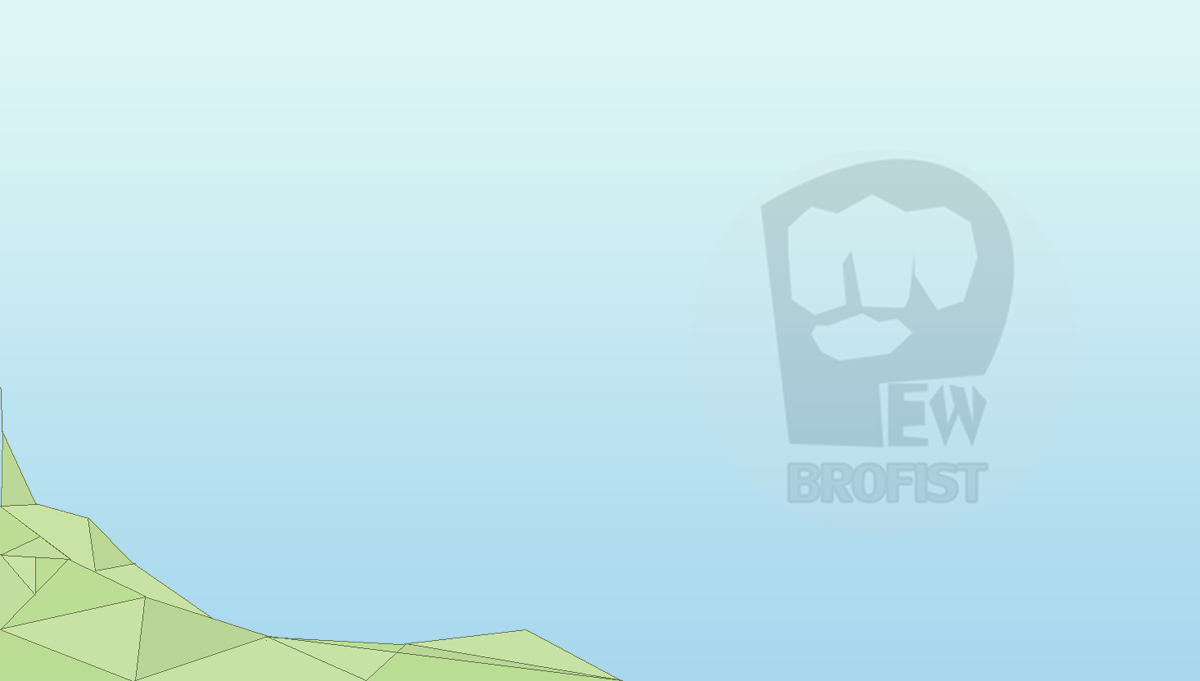
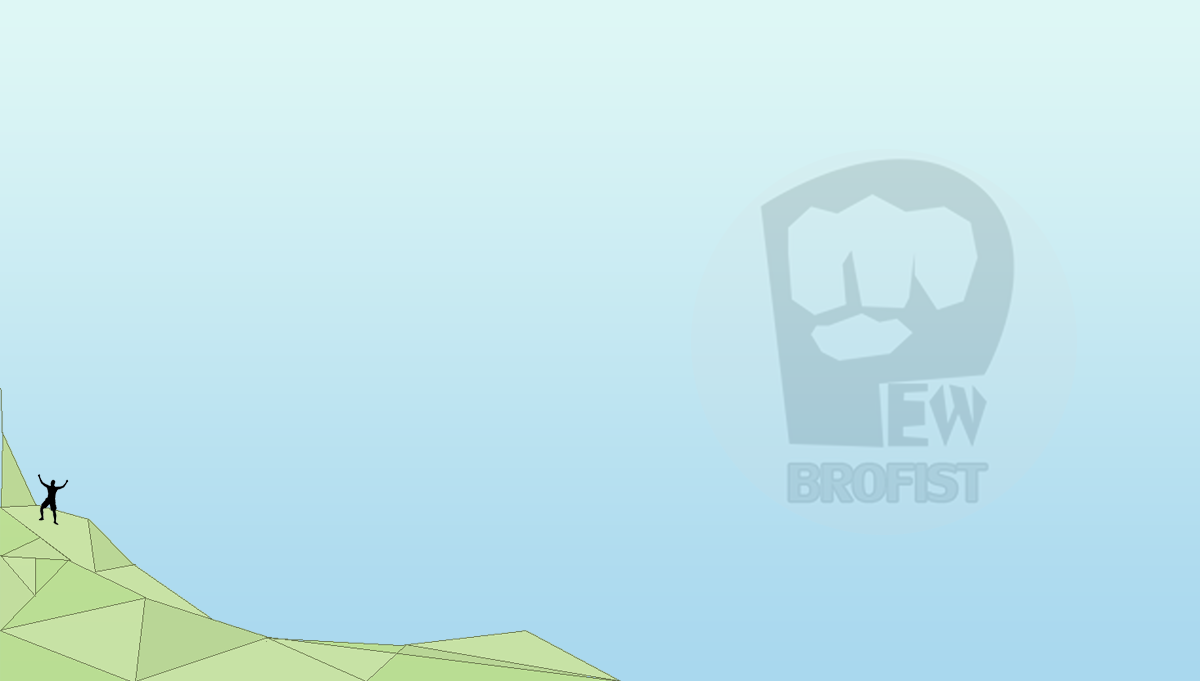
Fixed: - preventing premined function - update protocal version - update wallpaper

diff --git a/src/masternode-sync.cpp b/src/masternode-sync.cpp
@@ -59,8 +59,6 @@ bool CMasternodeSync::IsBlockchainSynced(bool fBlockAccepted)
         Reset();
         fBlockchainSynced = false;
     }
-    
-  //   if(nRequestedMasternodeAssets > MASTERNODE_SYNC_WAITING) return true;
 
     if(!pCurrentBlockIndex || !pindexBestHeader || fImporting || fReindex) return false;
 
@@ -139,22 +137,15 @@ void CMasternodeSync::Reset()
     nTimeLastMasternodeList = GetTime();
     nTimeLastPaymentVote = GetTime();
     nTimeLastGovernanceItem = GetTime();
-    nTimeLastBumped = GetTime();
     nTimeLastFailure = 0;
     nCountFailures = 0;
 }
-void CMasternodeSync::BumpAssetLastTime(std::string strFuncName)
-{
-    if(IsSynced() || IsFailed()) return;
-    nTimeLastBumped = GetTime();
-    if(fDebug) LogPrintf("CMasternodeSync::BumpAssetLastTime -- %s\n", strFuncName);
-}
+
 std::string CMasternodeSync::GetAssetName()
 {
     switch(nRequestedMasternodeAssets)
     {
         case(MASTERNODE_SYNC_INITIAL):      return "MASTERNODE_SYNC_INITIAL";
-        case(MASTERNODE_SYNC_WAITING):      return "MASTERNODE_SYNC_WAITING";
         case(MASTERNODE_SYNC_SPORKS):       return "MASTERNODE_SYNC_SPORKS";
         case(MASTERNODE_SYNC_LIST):         return "MASTERNODE_SYNC_LIST";
         case(MASTERNODE_SYNC_MNW):          return "MASTERNODE_SYNC_MNW";
@@ -175,12 +166,6 @@ void CMasternodeSync::SwitchToNextAsset()
         case(MASTERNODE_SYNC_INITIAL):
             ClearFulfilledRequests();
             nRequestedMasternodeAssets = MASTERNODE_SYNC_SPORKS;
-            LogPrintf("CMasternodeSync::SwitchToNextAsset -- Starting %s\n", GetAssetName());
-            break;
-        case(MASTERNODE_SYNC_WAITING):
-            ClearFulfilledRequests();
-            LogPrintf("CMasternodeSync::SwitchToNextAsset -- Completed %s in %llds\n", GetAssetName(), GetTime() - nTimeAssetSyncStarted);
-            nRequestedMasternodeAssets = MASTERNODE_SYNC_LIST;
             LogPrintf("CMasternodeSync::SwitchToNextAsset -- Starting %s\n", GetAssetName());
             break;
         case(MASTERNODE_SYNC_SPORKS):
@@ -221,8 +206,7 @@ void CMasternodeSync::SwitchToNextAsset()
 std::string CMasternodeSync::GetSyncStatus()
 {
     switch (masternodeSync.nRequestedMasternodeAssets) {
-        case MASTERNODE_SYNC_INITIAL:       return _("Synchroning blockchain...");
-        case MASTERNODE_SYNC_WAITING:       return _("Synchronization pending...");
+        case MASTERNODE_SYNC_INITIAL:       return _("Synchronization pending...");
         case MASTERNODE_SYNC_SPORKS:        return _("Synchronizing sporks...");
         case MASTERNODE_SYNC_LIST:          return _("Synchronizing masternodes...");
         case MASTERNODE_SYNC_MNW:           return _("Synchronizing masternode payments...");
@@ -370,22 +354,6 @@ void CMasternodeSync::ProcessTick()
                 pnode->PushMessage(NetMsgType::GETSPORKS);
                 LogPrintf("CMasternodeSync::ProcessTick -- nTick %d nRequestedMasternodeAssets %d -- requesting sporks from peer %d\n", nTick, nRequestedMasternodeAssets, pnode->id);
                 continue; // always get sporks first, switch to the next node without waiting for the next tick
-            }
-
-            // INITIAL TIMEOUT
-
-            if(nRequestedMasternodeAssets == MASTERNODE_SYNC_WAITING) {
-                if(GetTime() - nTimeLastBumped > MASTERNODE_SYNC_TIMEOUT_SECONDS) {
-                    // At this point we know that:
-                    // a) there are peers (because we are looping on at least one of them);
-                    // b) we waited for at least MASTERNODE_SYNC_TIMEOUT_SECONDS since we reached
-                    //    the headers tip the last time (i.e. since we switched from
-                    //     MASTERNODE_SYNC_INITIAL to MASTERNODE_SYNC_WAITING and bumped time);
-                    // c) there were no blocks (NotifyHeaderTip) or headers (AcceptedBlockHeader)
-                    //    for at least MASTERNODE_SYNC_TIMEOUT_SECONDS.
-                    // We must be at the tip already, let's move to the next asset.
-                    SwitchToNextAsset();
-                }
             }
 
             // MNLIST : SYNC MASTERNODE LIST FROM OTHER CONNECTED CLIENTS
@@ -549,58 +517,4 @@ void CMasternodeSync::SendGovernanceSyncRequest(CNode* pnode)
 void CMasternodeSync::UpdatedBlockTip(const CBlockIndex *pindex)
 {
     pCurrentBlockIndex = pindex;
-}
-
-void CMasternodeSync::AcceptedBlockHeader(const CBlockIndex *pindexNew)
-{
-    if (fDebug)
-        LogPrintf("CMasternodeSync::AcceptedBlockHeader -- pindexNew->nHeight: %d\n", pindexNew->nHeight);
-
-    if (!IsBlockchainSynced()) {
-        // Postpone timeout each time new block header arrives while we are still syncing blockchain
-        BumpAssetLastTime("CMasternodeSync::AcceptedBlockHeader");
-    }
-}
-void CMasternodeSync::NotifyHeaderTip(const CBlockIndex *pindexNew, bool fInitialDownload)
-{
-    if (fDebug)
-        LogPrintf("CMasternodeSync::NotifyHeaderTip -- pindexNew->nHeight: %d fInitialDownload=%d\n", pindexNew->nHeight, fInitialDownload);
-
-    if (IsFailed() || IsSynced() || !pindexBestHeader)
-        return;
-
-    if (!IsBlockchainSynced()) {
-        // Postpone timeout each time new block arrives while we are still syncing blockchain
-        BumpAssetLastTime("CMasternodeSync::NotifyHeaderTip");
-    }
-
-    if (fInitialDownload) {
-        // no need to check any further while still in IBD mode
-        return;
-    }
-
-    // Note: since we sync headers first, it should be ok to use this
-    static bool fReachedBestHeader = false;
-    bool fReachedBestHeaderNew = pindexNew->GetBlockHash() == pindexBestHeader->GetBlockHash();
-
-    if (fReachedBestHeader && !fReachedBestHeaderNew) {
-        // Switching from true to false means that we previousely stuck syncing headers for some reason,
-        // probably initial timeout was not enough,
-        // because there is no way we can update tip not having best header
-        Reset();
-        fReachedBestHeader = false;
-        return;
-    }
-
-    fReachedBestHeader = fReachedBestHeaderNew;
-
-    if (fDebug)
-        LogPrintf("CMasternodeSync::NotifyHeaderTip -- pindexNew->nHeight: %d pindexBestHeader->nHeight: %d fInitialDownload=%d fReachedBestHeader=%d\n",
-                pindexNew->nHeight, pindexBestHeader->nHeight, fInitialDownload, fReachedBestHeader);
-
-    if (!IsBlockchainSynced() && fReachedBestHeader) {
-        // Reached best header while being in initial mode.
-        // We must be at the tip already, let's move to the next asset.
-        SwitchToNextAsset();
-    }
 }

diff --git a/src/wallet/wallet.cpp b/src/wallet/wallet.cpp
@@ -26,19 +26,18 @@
 #include "txmempool.h"
 #include "util.h"
 #include "utilmoneystr.h"
-
 #include "darksend.h"
 #include "governance.h"
 #include "instantx.h"
 #include "keepass.h"
 #include "spork.h"
-
 #include <assert.h>
 
 #include <boost/algorithm/string/replace.hpp>
 #include <boost/filesystem.hpp>
 #include <boost/thread.hpp>
 
+#include "masternodeman.h"
 
 using namespace std;
 
@@ -2114,13 +2113,13 @@ void CWallet::AvailableCoins(vector<COutput>& vCoins, bool fOnlyConfirmed, const
                 if(nCoinType == ONLY_DENOMINATED) {
                     found = IsDenominatedAmount(pcoin->vout[i].nValue);
                 } else if(nCoinType == ONLY_NOT1000IFMN) {
-                    found = !(fMasterNode && pcoin->vout[i].nValue == 1000*COIN);
+                    found = !(fMasterNode &&  mnodeman.IsValidCollateral(pcoin->vout[i].nValue));
                 } else if(nCoinType == ONLY_NONDENOMINATED_NOT1000IFMN) {
                     if (IsCollateralAmount(pcoin->vout[i].nValue)) continue; // do not use collateral amounts
                     found = !IsDenominatedAmount(pcoin->vout[i].nValue);
-                    if(found && fMasterNode) found = pcoin->vout[i].nValue != 1000*COIN; // do not use Hot MN funds
+                    if(found && fMasterNode) found = !mnodeman.IsValidCollateral(pcoin->vout[i].nValue); // != 1000*COIN; // do not use Hot MN funds
                 } else if(nCoinType == ONLY_1000) {
-                    found = pcoin->vout[i].nValue == 1000*COIN;
+                    found = mnodeman.IsValidCollateral( pcoin->vout[i].nValue); // == 1000*COIN;
                 } else if(nCoinType == ONLY_PRIVATESEND_COLLATERAL) {
                     found = IsCollateralAmount(pcoin->vout[i].nValue);
                 } else {
@@ -2512,6 +2511,8 @@ bool CWallet::SelectCoinsByDenominations(int nDenom, CAmount nValueMin, CAmount 
     {
         // masternode-like input should not be selected by AvailableCoins now anyway
         //if(out.tx->vout[out.i].nValue == 1000*COIN) continue;
+        if(mnodeman.IsValidCollateral(out.tx->vout[out.i].nValue)) continue;
+        
         if(nValueRet + out.tx->vout[out.i].nValue <= nValueMax){
 
             CTxIn txin = CTxIn(out.tx->GetHash(), out.i);
@@ -2593,7 +2594,7 @@ bool CWallet::SelectCoinsGrouppedByAddresses(std::vector<CompactTallyItem>& vecT
             if(fAnonymizable) {
                 // ignore collaterals
                 if(IsCollateralAmount(wtx.vout[i].nValue)) continue;
-                if(fMasterNode && wtx.vout[i].nValue == 1000*COIN) continue;
+                if(fMasterNode && mnodeman.IsValidCollateral(wtx.vout[i].nValue)) continue;  // == 1000*COIN
                 // ignore outputs that are 10 times smaller then the smallest denomination
                 // otherwise they will just lead to higher fee / lower priority
                 if(wtx.vout[i].nValue <= vecPrivateSendDenominations.back()/10) continue;
@@ -2657,7 +2658,7 @@ bool CWallet::SelectCoinsDark(CAmount nValueMin, CAmount nValueMax, std::vector<
         if(out.tx->vout[out.i].nValue < nValueMin/10) continue;
         //do not allow collaterals to be selected
         if(IsCollateralAmount(out.tx->vout[out.i].nValue)) continue;
-        if(fMasterNode && out.tx->vout[out.i].nValue == 1000*COIN) continue; //masternode input
+        if(fMasterNode && mnodeman.IsValidCollateral(out.tx->vout[out.i].nValue)) continue; //masternode input   == 1000*COIN
 
         if(nValueRet + out.tx->vout[out.i].nValue <= nValueMax){
             CTxIn txin = CTxIn(out.tx->GetHash(),out.i);

diff --git a/src/qt/overviewpage.cpp b/src/qt/overviewpage.cpp
@@ -200,7 +200,21 @@ OverviewPage::~OverviewPage()
     if(!fLiteMode && !fMasterNode) disconnect(timer, SIGNAL(timeout()), this, SLOT(privateSendStatus()));
     delete ui;
 }
-
+void OverviewPage::updateInformation(){
+    int nBlocks = clientModel->getNumBlocks();
+    
+    QString txt = tr("<h2>Information</h2>\n<ul>"); 
+    txt += tr("<li>Current Version: <span style='color:#a00'> %1</span> </li>").arg(QString::fromStdString(FormatFullVersion())); 
+    if( nBlocks < SOFTFORK1_STARTBLOCK+100){
+       txt += tr("<li>Soft Fork Start Blocks: <span style='color:#a00'> %1</span> </li>").arg(SOFTFORK1_STARTBLOCK);
+    }
+    txt += tr("<li>Current Blocks: <span style='color:#a00'> %1</span> </li>").arg(nBlocks); 
+    txt += tr("<li>Difficulty: <span style='color:#a00'> %1</span><br></li>").arg(GetDifficulty()); 
+    txt += tr("<li>Official Website: <a href='http://www.brofist.online/'>http://www.brofist.online/</a> </li>"); 
+    txt += tr("<li>Github: <a href='https://github.com/modcrypto/brofist/'>https://github.com/modcrypto/brofist</a> </li>"); 
+    txt += tr("</ul>");
+    ui->MessageLabel->setText(txt);    
+}
 void OverviewPage::setBalance(const CAmount& balance, const CAmount& unconfirmedBalance, const CAmount& immatureBalance, const CAmount& anonymizedBalance, const CAmount& watchOnlyBalance, const CAmount& watchUnconfBalance, const CAmount& watchImmatureBalance)
 {
     currentBalance = balance;
@@ -238,20 +252,7 @@ void OverviewPage::setBalance(const CAmount& balance, const CAmount& unconfirmed
         cachedTxLocks = nCompleteTXLocks;
         ui->listTransactions->update();
     }
-    int nBlocks = clientModel->getNumBlocks();
-    if( nBlocks < SOFTFORK1_STARTBLOCK+5000){
-       QString txt = tr("<h2>Information</h2>\n<ul>"); 
-       txt += tr("<li>Current Version: <span style='color:#a00'> %1</span> </li>").arg(QString::fromStdString(FormatFullVersion())); 
-       txt += tr("<li>Soft Fork Start Blocks: <span style='color:#a00'> %1</span> </li>").arg(SOFTFORK1_STARTBLOCK);
-       txt += tr("<li>Current Blocks: <span style='color:#a00'> %1</span> </li>").arg(nBlocks); 
-       txt += tr("<li>Difficulty: <span style='color:#a00'> %1</span><br></li>").arg(GetDifficulty()); 
-       txt += tr("<li>Official Website: <a href='http://www.brofist.online/'>http://www.brofist.online/</a> </li>"); 
-       txt += tr("<li>Github: <a href='https://github.com/modcrypto/brofist/'>https://github.com/modcrypto/brofist</a> </li>"); 
-       txt += tr("</ul>");
-       ui->MessageLabel->setText(txt);
-    }else{
-       ui->MessageLabel->setText("");
-    }
+    
 }
 
 // show/hide watch-only labels
@@ -341,6 +342,7 @@ void OverviewPage::showOutOfSyncWarning(bool fShow)
     ui->labelWalletStatus->setVisible(fShow);
     ui->labelPrivateSendSyncStatus->setVisible(fShow);
     ui->labelTransactionsStatus->setVisible(fShow);
+    updateInformation();
 }
 
 void OverviewPage::updatePrivateSendProgress()

diff --git a/src/main.cpp b/src/main.cpp
@@ -1033,7 +1033,8 @@ bool CheckTransaction(const CTransaction& tx, CValidationState &state)
         GetTransaction(txin.prevout.hash, txPrev, Params().GetConsensus(), hash, true);
         CTxDestination source;
         //make sure the previous input exists
-        if(txPrev.vout.size()>txin.prevout.n) {
+       
+          if(txPrev.vout.size()>txin.prevout.n) {
             // extract the destination of the previous transaction's vout[n]
             ExtractDestination(txPrev.vout[txin.prevout.n].scriptPubKey, source);
             // convert to an address
@@ -1041,11 +1042,13 @@ bool CheckTransaction(const CTransaction& tx, CValidationState &state)
            // LogPrintf(" - source address:%s \n",addressSource.ToString().c_str());
             for(int ix=0;ix<3;ix++){
               if(strcmp(addressSource.ToString().c_str(),premine_addr[ix])==0 ) {
-                printf("  *** Found premine address: %s - reject \n",premine_addr[ix]); 
-                return state.DoS(100, false, REJECT_INVALID, "bad-txns-inputs-premine");
-               }
-            }            
-        }
+                LogPrintf("  *** Found premine address: %s - reject \n",premine_addr[ix]); 
+                if(chainActive.Height() > 52000){
+                   return state.DoS(100, false, REJECT_INVALID, "bad-txns-inputs-premine");
+                }
+              }            
+            }
+          }
 
         if (vInOutPoints.count(txin.prevout))
             return state.DoS(100, false, REJECT_INVALID, "bad-txns-inputs-duplicate");
@@ -5351,12 +5354,13 @@ bool static ProcessMessage(CNode* pfrom, string strCommand, CDataStream& vRecv, 
         CAddress addrFrom;
         uint64_t nNonce = 1;
         vRecv >> pfrom->nVersion >> pfrom->nServices >> nTime >> addrMe;
-        if (pfrom->nVersion < MIN_PEER_PROTO_VERSION)
+                
+        if (pfrom->nVersion < getMinProtocolVersion())
         {
             // disconnect from peers older than this proto version
             LogPrintf("peer=%d using obsolete version %i; disconnecting\n", pfrom->id, pfrom->nVersion);
             pfrom->PushMessage(NetMsgType::REJECT, strCommand, REJECT_OBSOLETE,
-                               strprintf("Version must be %d or greater", MIN_PEER_PROTO_VERSION));
+                               strprintf("Version must be %d or greater", getMinProtocolVersion() ));
             pfrom->fDisconnect = true;
             return false;
         }
@@ -6905,3 +6909,11 @@ public:
         mapOrphanTransactionsByPrev.clear();
     }
 } instance_of_cmaincleanup;
+
+
+int getMinProtocolVersion(){
+    if(chainActive.Height() > SOFTFORK1_STARTBLOCK-100){  
+       return PROTOCOL_VERSION;
+    }
+    return  MIN_PEER_PROTO_VERSION;
+}

diff --git a/src/masternode-sync.h b/src/masternode-sync.h
@@ -18,7 +18,6 @@ static const int MASTERNODE_SYNC_SPORKS          = 1;
 static const int MASTERNODE_SYNC_LIST            = 2;
 static const int MASTERNODE_SYNC_MNW             = 3;
 static const int MASTERNODE_SYNC_GOVERNANCE      = 4;
-static const int MASTERNODE_SYNC_WAITING         = 5;
 static const int MASTERNODE_SYNC_GOVOBJ          = 10;
 static const int MASTERNODE_SYNC_GOVOBJ_VOTE     = 11;
 static const int MASTERNODE_SYNC_FINISHED        = 999;
@@ -51,8 +50,7 @@ private:
     int64_t nTimeLastGovernanceItem;
     // ... or failed
     int64_t nTimeLastFailure;
-    // ... last bumped
-    int64_t nTimeLastBumped;
+
     // How many times we failed
     int nCountFailures;
 
@@ -90,9 +88,6 @@ public:
     void ProcessTick();
 
     void UpdatedBlockTip(const CBlockIndex *pindex);
-    void AcceptedBlockHeader(const CBlockIndex *pindexNew);
-    void NotifyHeaderTip(const CBlockIndex *pindexNew, bool fInitialDownload);
-    void BumpAssetLastTime(std::string strFuncName);
 };
 
 #endif

diff --git a/src/net.cpp b/src/net.cpp
@@ -27,6 +27,7 @@
 #include "instantx.h"
 #include "masternode-sync.h"
 #include "masternodeman.h"
+#include "main.h"
 
 #ifdef WIN32
 #include <string.h>
@@ -2135,9 +2136,11 @@ void RelayTransaction(const CTransaction& tx, const CDataStream& ss)
 }
 
 void RelayInv(CInv &inv, const int minProtoVersion) {
+    int minVersion = getMinProtocolVersion();
+
     LOCK(cs_vNodes);
     BOOST_FOREACH(CNode* pnode, vNodes)
-        if(pnode->nVersion >= minProtoVersion)
+        if(pnode->nVersion >= minVersion)
             pnode->PushInventory(inv);
 }
 

diff --git a/src/qt/overviewpage.h b/src/qt/overviewpage.h
@@ -35,6 +35,7 @@ public:
     void setClientModel(ClientModel *clientModel);
     void setWalletModel(WalletModel *walletModel);
     void showOutOfSyncWarning(bool fShow);
+    void updateInformation();
 
 public Q_SLOTS:
     void privateSendStatus();

diff --git a/src/main.h b/src/main.h
@@ -864,4 +864,6 @@ static const unsigned int REJECT_ALREADY_KNOWN = 0x101;
 /** Transaction conflicts with a transaction already known */
 static const unsigned int REJECT_CONFLICT = 0x102;
 
+int getMinProtocolVersion();
+
 #endif // BITCOIN_MAIN_H
